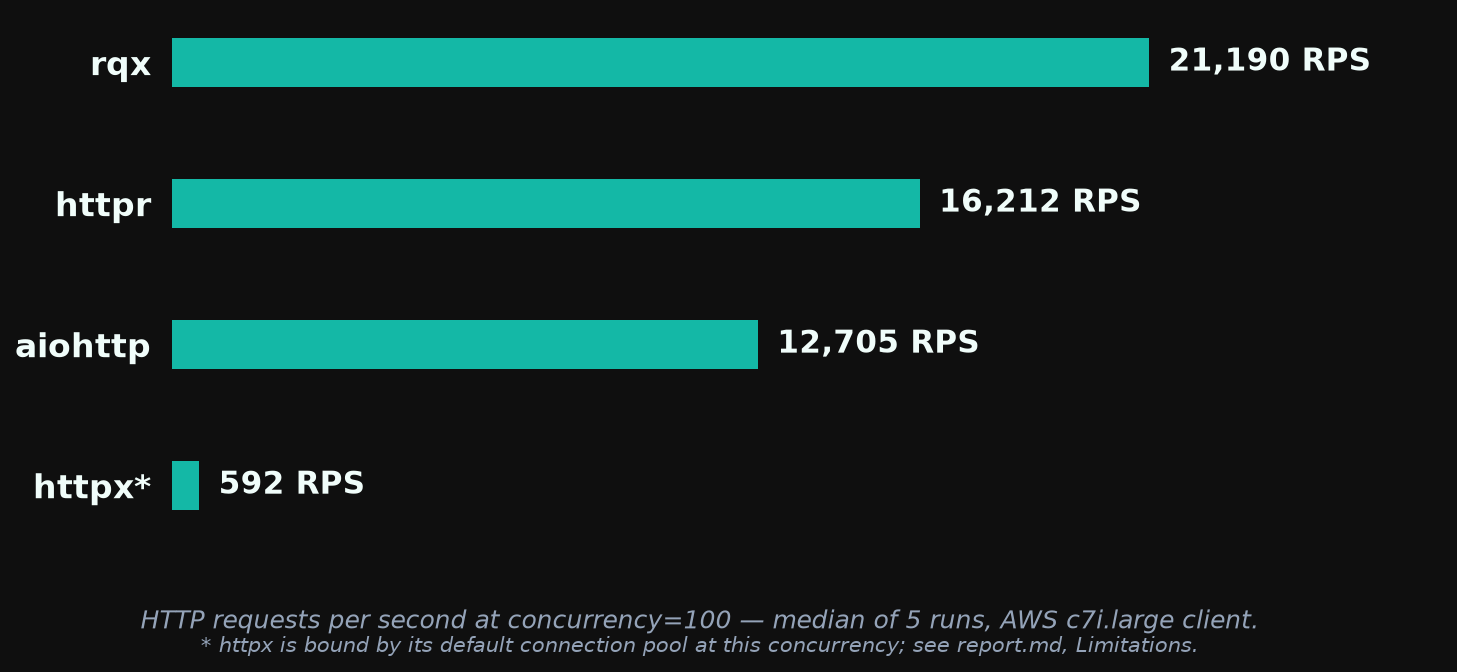
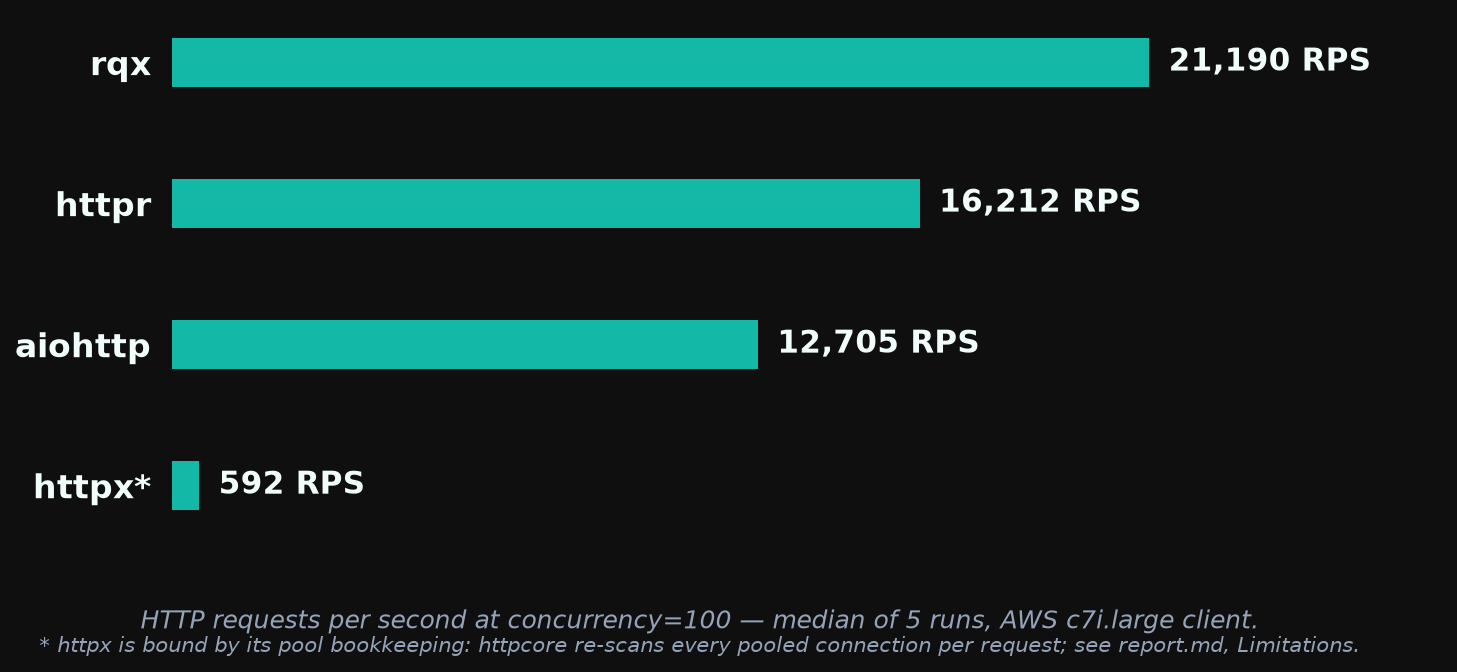
update docs

Changed region(s): [[0.0309, 0.9375, 0.9266, 0.9688]]

diff --git a/benchmarks/plot_bench.py b/benchmarks/plot_bench.py
@@ -186,7 +186,7 @@ def main():
         title="HTTP requests per second at concurrency=100 — median of 5 runs, AWS c7i.large client.",
         out_path=out_dir / "throughput.png",
         label_overrides={"httpx": "httpx*"},
-        footnote="* httpx is bound by its default connection pool at this concurrency; see report.md, Limitations.",
+        footnote="* httpx is bound by its pool bookkeeping: httpcore re-scans every pooled connection per request; see report.md, Limitations.",
     )
     render_bar_chart(
         medians_at(runs, 100, "peak_rss_mb"),

diff --git a/benchmarks/0.4.0/report.md b/benchmarks/0.4.0/report.md
@@ -2,11 +2,11 @@
 
 **rqx has the highest throughput and lowest median latency** of the four clients tested (rqx, httpr, aiohttp, httpx) at every concurrency, and the smallest memory footprint at c=10 and c=50. **aiohttp still wins tail-latency consistency** (p99/p50 of ~1.1× vs rqx's ~1.9–2.1×), and from c=100 up aiohttp, and from c=500 up httpr and httpx, use less memory than rqx.
 
-**Throughput is up 7–14% against 0.3.0, 3.5–7 points more than the machines explain.** This instance pair is faster than 0.3.0's (httpr +3–7%, aiohttp +1–7% on identical versions), and rqx rose more than either at every concurrency. The extra is consistent with fat LTO, which this release turns on to recover the cross-crate inlining the crate split removed (see *Same-box A/B*). **Peak memory at c=500 and c=1000 is up 9–11 MB**, with every other client flat; it arrived with PR #196 or PR #202 and is not yet bisected (see *Memory*).
+**Throughput is up 7–14% against 0.3.0, 3.5–7 points more than the machines explain.** This instance pair is faster than 0.3.0's (httpr +3–7%, aiohttp +1–7% on identical versions), and rqx rose more than either at every concurrency. The extra is consistent with fat LTO, which this release turns on to recover the cross-crate inlining the crate split removed (see *Same-box A/B*). **The tables below are the release run, which predates PR #210.** That run found peak memory at c=500 and c=1000 up 9–11 MB against 0.3.0. PR #210 traced it to a wrapper added in PR #202 that stored each in-flight request's async state twice, and fixed it; its same-box A/B puts c=500 back at 0.3.0's level and adds 4.5–7.2% throughput on top of the numbers here (see *Memory* and *Same-box A/B*).
 
 > *These benchmarks are basic and machine-dependent. They are intended as a rough comparison, not a definitive ranking. Results are specific to a 2-vCPU client on AWS c7i.large hitting a same-VPC nginx server over plaintext HTTP/1.1.*
 
-Run: `20260927-231729` · raw logs in [`../results/aws-20260928-v040/`](../results/aws-20260928-v040/) · rqx at `a7c7f33` (`main` with PRs #196, #202 and #204; the binary reports 0.3.0 because the bump lands with the release)
+Run: `20260927-231729` · raw logs in [`../results/aws-20260928-v040/`](../results/aws-20260928-v040/) · rqx at `a7c7f33` (`main` with PRs #196, #202 and #204; the binary reports 0.3.0 because the bump lands with the release). PR #210 landed after this run and is measured by its own A/B below; the tables and charts are the build without it.
 
 ## Throughput
 
@@ -45,8 +45,17 @@ Two same-box A/Bs cover this release's code, each with 20 alternating pairs per 
 
 - **The crate split and fat LTO (PR #202, run `ab-20260922-220938`, c=10).** Splitting rqx into a pure-Rust core and a binding crate cost 4.25% (split slower in 20/20 pairs): calls from the binding into core became calls across a crate boundary, which the compiler cannot inline without LTO. The same split with the old dependency versions was within 0.4% of the new ones, so the dependency bumps are not a factor. With fat LTO the split build was 4.06% faster than v0.3.0 (20/20 pairs) and its wheel 17% smaller.
 - **The configuration refactor (PR #204, run `ab-20260927-171507`, `main` vs the branch).** −0.45% at c=10 (branch faster in 7/20 pairs), +0.31% at c=100 (11/20), −0.05% at c=500 (10/20), peak RSS within 0.7 MB. No detectable effect.
+- **The task-future fix (PR #210, run `ab-20260928-013423`, `main` at `a7c7f33` vs the fix at `79ceb2d`).** Measured after the release run, on a fresh instance pair:
 
-The release run's rqx lead over the controls, 3.5–7 points, is in line with the LTO result. Raw A/B logs are not archived with the release run; the conclusions are recorded here.
+  | c    | `a7c7f33` rps | PR #210 rps | median Δ | PR #210 faster | peak RSS `a7c7f33` → PR #210 |
+  | ---: | ------------: | ----------: | -------: | -------------: | ---------------------------: |
+  | 100  | 19,752        | 20,732      | +4.53%   | 20/20          | 40.7 → 38.2 MB               |
+  | 500  | 18,986        | 19,886      | +5.67%   | 19/20          | 74.9 → 65.6 MB               |
+  | 1000 | 18,175        | 19,482      | +7.22%   | 20/20          | 104.1 → 90.8 MB              |
+
+  httpr and aiohttp controls moved 2% or less within each block. The throughput gain grows with concurrency, which fits the cause: each in-flight request's task is half the size to allocate and copy (see *Memory*).
+
+The release run's rqx lead over the controls, 3.5–7 points, is in line with the LTO result; PR #210's gain is on top of it. Raw A/B logs are not archived with the release run; the conclusions are recorded here.
 
 ## Memory
 
@@ -61,9 +70,11 @@ Peak RSS in MB (median of 5 runs), measured via `resource.getrusage` in each cli
 | httpr   | 35.3     | 40.3     | 43.5     | 52.4     | **58.6** |
 | httpx   | 34.2     | 39.2     | 43.7     | 56.5     | 66.0     |
 
-**rqx's high-concurrency memory is up against 0.3.0: +8.9 MB (+14%) at c=500 and +10.6 MB (+13%) at c=1000.** Low concurrency is unchanged or better (c=10 −1.3 MB, c=50 ±0, c=100 +1.3 MB). Every other client is within 0.5 MB of 0.3.0 at every concurrency, so this is rqx, not the machine.
+**In this run, rqx's high-concurrency memory is up against 0.3.0: +8.9 MB (+14%) at c=500 and +10.6 MB (+13%) at c=1000. PR #210, released in 0.4.0, fixes it.** Low concurrency is unchanged or better (c=10 −1.3 MB, c=50 ±0, c=100 +1.3 MB). Every other client is within 0.5 MB of 0.3.0 at every concurrency, so this is rqx, not the machine.
 
-It is not this release's last change: PR #204's A/B shows 75.3 MB on `main` and 74.6 MB on the branch at c=500. The 22 September A/B already shows it: v0.3.0 at 66.3 MB against the split build at 77.3 MB at c=500, and 77.2 MB for the split with v0.3.0's dependency versions, so it came in with PR #196 (URL and QueryParams) or PR #202 (the crate split), not with dependency bumps. It scales with concurrency, roughly 10–20 KB per concurrent request, which points at something held per connection or per in-flight response rather than code size; PR #196's measured +80 bytes per live response is far too small to account for it. PR #196's own A/B reported no memory regression, but its memory analysis concentrated on low concurrency; if that holds at c=500, the crate split is the likelier source. Bisecting it is the next step: a same-box A/B of v0.3.0 against the PR #196 merge (`63863ed`) at c=500.
+**Cause.** PR #202 changed `Runtime::future_into_py` to convert the caller's error type with an `async move { fut.await.map_err(...) }` wrapper. rustc lays that block out with separate slots for the captured future and the future being awaited, and does not overlap them, so the whole request state was stored twice. Measured with nightly `-Zprint-type-sizes` on release builds, the heap-allocated task per in-flight `AsyncClient` request went from 4,424 bytes in 0.3.0 to 9,400 bytes. PR #210 replaces the wrapper with the `map_err` combinator, which stores the future once: 4,728 bytes (10,840 → 5,448 on the stream-enter path). A unit test pins the wrapper's overhead. Every in-flight request is a tokio task holding that state, so the cost scales with concurrency and was invisible at low c; the dependency bumps and PR #204 were ruled out by earlier A/Bs.
+
+**Effect.** In PR #210's A/B, peak RSS at c=500 went from 74.9 MB, which matches this run's 74.7, to 65.6 MB, level with 0.3.0's 65.8 MB. At c=1000 it dropped 13.3 MB, more than the 10.6 MB regression; the A/B measures for 8 s rather than 15 s, so its c=1000 absolute (104.1 → 90.8 MB) is not directly comparable to this table. The saving is larger than the per-request size difference alone predicts (about 4.7 KB × 500 ≈ 2.3 MB at c=500); the rest is not yet accounted for.
 
 ## Latency
 
@@ -107,8 +118,8 @@ Zero aborts or crashes across 95 b1 cells (aiohttp c=1000 is skipped by design),
 ## Limitations
 
 - **A different instance pair than 0.3.0's,** 1–7% faster by the controls. The *Versus 0.3.0* table reads rqx against those controls, not in absolute terms.
-- **The memory increase is not yet attributed** to PR #196 or PR #202; see *Memory*.
-- **The throughput chart's httpx footnote is out of date.** It says httpx is bound by its default connection pool; the benches set 1,500 connections for every client, and the cause is httpcore re-scanning its pool on every request (see the [0.2.0 report](../0.2.0/report.md#limitations) and https://github.com/rodcochran/rqx/issues/188). The footnote is hardcoded in `plot_bench.py`.
+- **The tables and charts predate PR #210.** The shipped 0.4.0 includes it; its effect is measured by the same-box A/B above rather than by a new release run, so shipped high-concurrency memory is lower, and throughput higher, than the tables show.
+- **httpx's numbers are its connection pool's bookkeeping, not the network.** httpcore re-scans every pooled connection when a request is queued or finishes, so per-request CPU grows with the number of open connections; see the [0.2.0 report](../0.2.0/report.md#limitations) and https://github.com/rodcochran/rqx/issues/188. The throughput chart's footnote now says so; charts before 0.4.0 carry the earlier, incorrect explanation.
 - **aiohttp at c=1000 is skipped** because its connector deadlocks under the harness at that concurrency; that is a harness interaction, not a verdict on aiohttp.
 - **Same-VPC RTT is sub-millisecond,** so every number here is client-CPU-bound. Over a real network the throughput gaps shrink and the latency gaps are dominated by the wire.
 

diff --git a/docs/release-notes-v0.4.0.md b/docs/release-notes-v0.4.0.md
@@ -4,7 +4,7 @@
 pip install --upgrade rqx
 ```
 
-URLs, query parameters and client configuration, and a breaking release. `rqx.URL` and `rqx.QueryParams` arrive with httpx's semantics, and `response.url` and `client.base_url` now return a `URL` instead of a string. `params=` now follows httpx: `None` sends an empty value, list values repeat the key, and passing `params=` replaces any query already on the URL. Redirect settings move off `Retry` into a new `rqx.RedirectPolicy`. A per-request `auth=` now replaces a client-level `auth_bearer` instead of raising. Every change below that alters existing behavior is listed under Behavior changes. Throughput is up 7–14% against 0.3.0, mostly from the fat-LTO build that accompanies the crate split; peak memory at c=500 and above is up 9–11 MB, a known regression listed under Performance.
+URLs, query parameters and client configuration, and a breaking release. `rqx.URL` and `rqx.QueryParams` arrive with httpx's semantics, and `response.url` and `client.base_url` now return a `URL` instead of a string. `params=` now follows httpx: `None` sends an empty value, list values repeat the key, and passing `params=` replaces any query already on the URL. Redirect settings move off `Retry` into a new `rqx.RedirectPolicy`. A per-request `auth=` now replaces a client-level `auth_bearer` instead of raising. Every change below that alters existing behavior is listed under Behavior changes. Throughput is up 7–14% against 0.3.0, mostly from the fat-LTO build that accompanies the crate split, and a further 4.5–7% at c=100–1000 from #210, which also brings peak memory at high concurrency back to 0.3.0's level.
 
 ## Behavior changes
 
@@ -39,12 +39,21 @@ URLs, query parameters and client configuration, and a breaking release. `rqx.UR
   | 500 | 19,769 | 19,741 | −0.05% | 10/20 | 75.3 → 74.6 MB |
 
   All within the noise floor. The httpr and aiohttp controls drifted by 3–4% during the session, which the alternating order cancels.
+* **Async task size (#210, #209):** each in-flight `AsyncClient` request's task stored its whole async state twice, through an error-conversion wrapper added in #202. Replacing it with a combinator halves the task (9,400 → 4,728 bytes). Same-box A/B against `main` (`a7c7f33` vs `79ceb2d`), 20 alternating pairs per concurrency:
 
-Full run on paired AWS `c7i.large` instances (client + nginx, single-AZ), rqx at `a7c7f33`, 5 runs per bench, against httpr 0.7.2, aiohttp 3.14.3, httpx 0.28.1 — the same comparator versions as 0.3.0. Charts in [`benchmarks/0.4.0/`](https://github.com/rodcochran/rqx/tree/v0.4.0/benchmarks/0.4.0); tables, method, the A/Bs and limitations in [`benchmarks/0.4.0/report.md`](https://github.com/rodcochran/rqx/blob/v0.4.0/benchmarks/0.4.0/report.md).
+  | c | main rps | #210 rps | median Δ | #210 faster | RSS main → #210 |
+  |---|---|---|---|---|---|
+  | 100 | 19,752 | 20,732 | +4.53% | 20/20 | 40.7 → 38.2 MB |
+  | 500 | 18,986 | 19,886 | +5.67% | 19/20 | 74.9 → 65.6 MB |
+  | 1000 | 18,175 | 19,482 | +7.22% | 20/20 | 104.1 → 90.8 MB |
+
+  At c=500 peak memory is back to 0.3.0's level (65.8 MB).
+
+Full run on paired AWS `c7i.large` instances (client + nginx, single-AZ), rqx at `a7c7f33` (before #210, which is measured by its A/B above), 5 runs per bench, against httpr 0.7.2, aiohttp 3.14.3, httpx 0.28.1 — the same comparator versions as 0.3.0. Charts in [`benchmarks/0.4.0/`](https://github.com/rodcochran/rqx/tree/v0.4.0/benchmarks/0.4.0); tables, method, the A/Bs and limitations in [`benchmarks/0.4.0/report.md`](https://github.com/rodcochran/rqx/blob/v0.4.0/benchmarks/0.4.0/report.md).
 
 * **Throughput (b1):** up 7–14% against 0.3.0, 3.5–7 points more than the httpr and aiohttp controls rose on this faster instance pair. That margin is in line with the fat-LTO A/B above. rqx leads every client at every concurrency — +31% over httpr and +67% over aiohttp at c=100, 52× httpx at c=1000.
 * **Latency (b2, c=100):** p50 4.39 ms (−8.2% against 0.3.0, controls −1 to −2%), lowest of the four; p99 10.20 ms, above aiohttp's 7.65 — the #168 tail, unchanged.
-* **Memory — known regression:** peak RSS at c=500 and c=1000 is up 8.9 MB and 10.6 MB (+13–14%) against 0.3.0, with every other client within 0.5 MB. Low concurrency is unchanged or lower (c=10 −1.3 MB). It came in with #196 or #202, not with dependency bumps or #204, and is not yet bisected.
+* **Memory:** this run, without #210, had peak RSS at c=500 and c=1000 up 8.9 MB and 10.6 MB (+13–14%) against 0.3.0, with every other client within 0.5 MB. #210 fixes it (see above). Low concurrency is unchanged or lower (c=10 −1.3 MB).
 * **Stability:** zero aborts across 95 b1 cells, 5 b2 runs, 5 b8 runs; zero request failures. Fifth consecutive clean run.
 
 ## Internals
@@ -54,6 +63,7 @@ Full run on paired AWS `c7i.large` instances (client + nginx, single-AZ), rqx at
 * `Auth::{None, Basic, Bearer}` replaces the separate basic and bearer arguments. The basic-vs-bearer rule is checked when an `Auth` is built (#204).
 * `RedirectPolicy` holds `follow`, `max_redirects` and `raise_on_exceeded`, which removes the redirect loop's read of `raise_on_redirect` from the transport's retry config (#204).
 * The seven per-verb methods on the core `Client` are removed. The binding's verbs call `request` (#204).
+* `Runtime::with_py_errors` converts a request's error type with the `map_err` combinator instead of an `async move` wrapper, which stored the future twice (#210).
 * A `PyRepr` trait spells `bool`, `u32`, `f64` and `Option<T>` the way Python's `repr()` does, without the GIL (#204).
 
 ## Tests
@@ -62,6 +72,7 @@ Full run on paired AWS `c7i.large` instances (client + nginx, single-AZ), rqx at
 * Redirect policy: raising versus returning the last 3xx, conflicting and agreeing client kwargs, getters and `repr`, sync and async (#204).
 * Rust unit tests for `PyRepr`, and a hypothesis property checking `repr(Timeout)` and `repr(RedirectPolicy)` against Python's own `repr` for any value (#204).
 * CI runs `cargo test --workspace` (was `--lib`), matching the new `just test-rust`, which `just check` now includes (#204).
+* A unit test pins the error-conversion wrapper's size overhead, so the task future can't silently double again (#210).
 * The test suite floors httpx at 0.28 (#201).
 
 ## Benchmarks & tooling

diff --git a/README.md b/README.md
@@ -72,7 +72,7 @@ just test         # full test suite
 
 Measured on a paired AWS c7i.large client/server (2 vCPU each, non-burstable) in `us-east-1`, hitting nginx over an intra-VPC private IP. Each bar is the median of 5 runs; each (client, concurrency, run) executes in its own Python subprocess to keep clients from contaminating each other's measurements.
 
-Charts below are from the 0.4.0 run (2026-09-27). Full methodology, per-concurrency tables, and limitations: [benchmarks/0.4.0/report.md](benchmarks/0.4.0/report.md). Earlier runs are kept at [benchmarks/0.3.0/report.md](benchmarks/0.3.0/report.md), [benchmarks/0.2.0/report.md](benchmarks/0.2.0/report.md), [benchmarks/0.1.5/report.md](benchmarks/0.1.5/report.md), [benchmarks/0.1.4/report.md](benchmarks/0.1.4/report.md), [benchmarks/0.1.3/report.md](benchmarks/0.1.3/report.md), and [docs/launch_report.md](docs/launch_report.md) for comparison.
+Charts below are from the 0.4.0 release run (2026-09-27), measured just before the last fix of the release ([#210](https://github.com/rodcochran/rqx/pull/210)), which a same-box A/B puts at a further +4.5% throughput and −2.5 MB peak memory at concurrency 100 (+5.7% and −9.3 MB at 500). Full methodology, per-concurrency tables, and limitations: [benchmarks/0.4.0/report.md](benchmarks/0.4.0/report.md). Earlier runs are kept at [benchmarks/0.3.0/report.md](benchmarks/0.3.0/report.md), [benchmarks/0.2.0/report.md](benchmarks/0.2.0/report.md), [benchmarks/0.1.5/report.md](benchmarks/0.1.5/report.md), [benchmarks/0.1.4/report.md](benchmarks/0.1.4/report.md), [benchmarks/0.1.3/report.md](benchmarks/0.1.3/report.md), and [docs/launch_report.md](docs/launch_report.md) for comparison.
 
 ![Throughput at concurrency=100](benchmarks/0.4.0/throughput.png)
 
